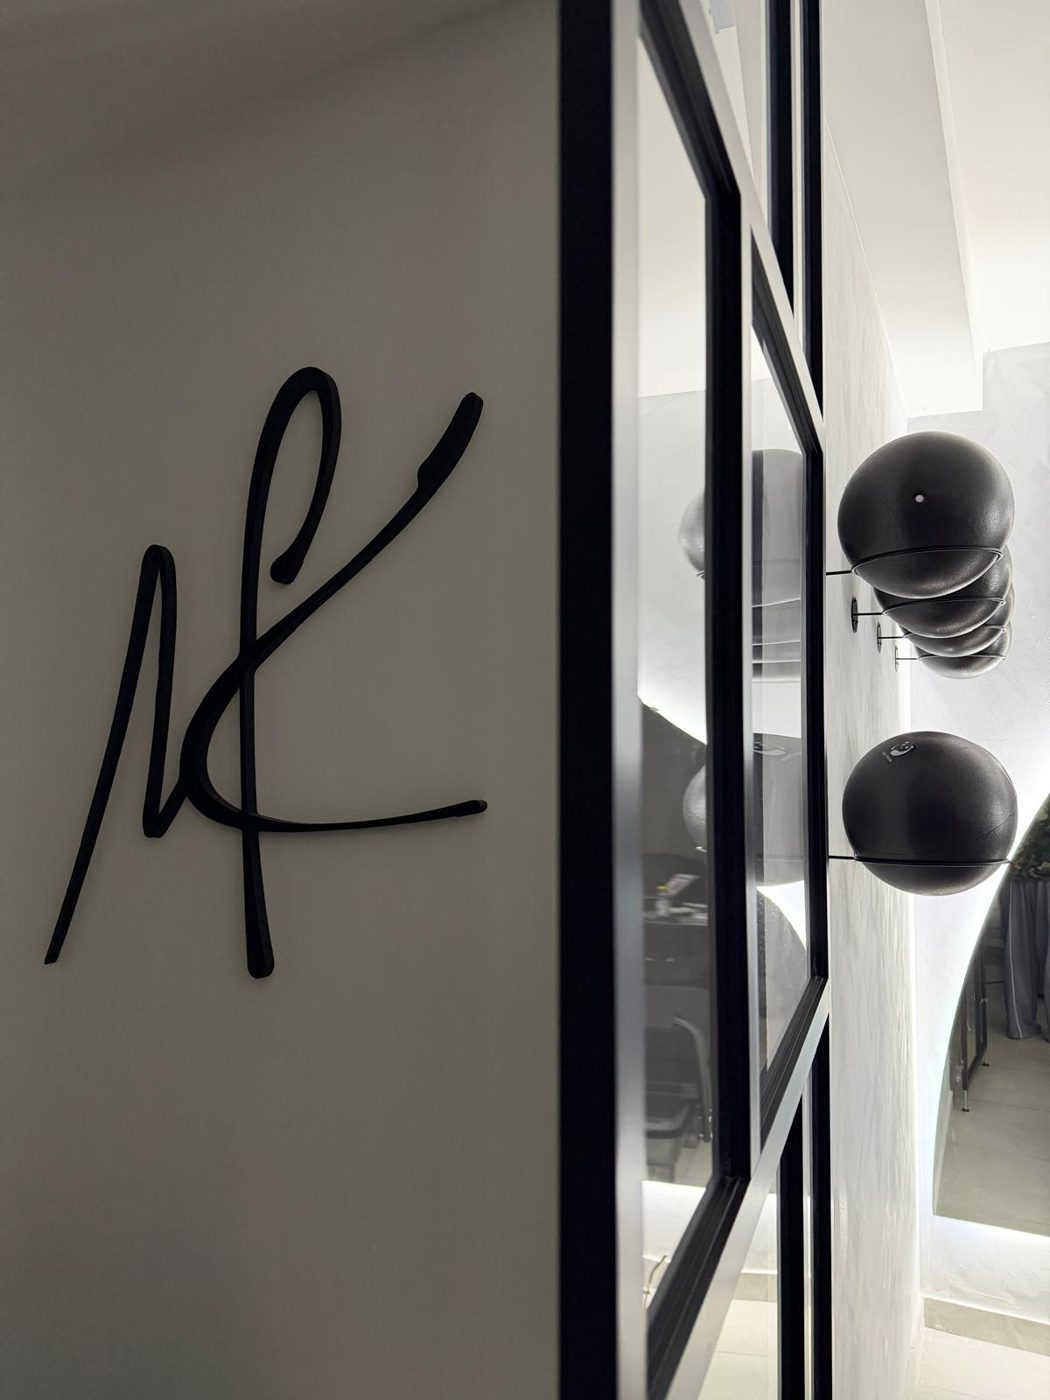
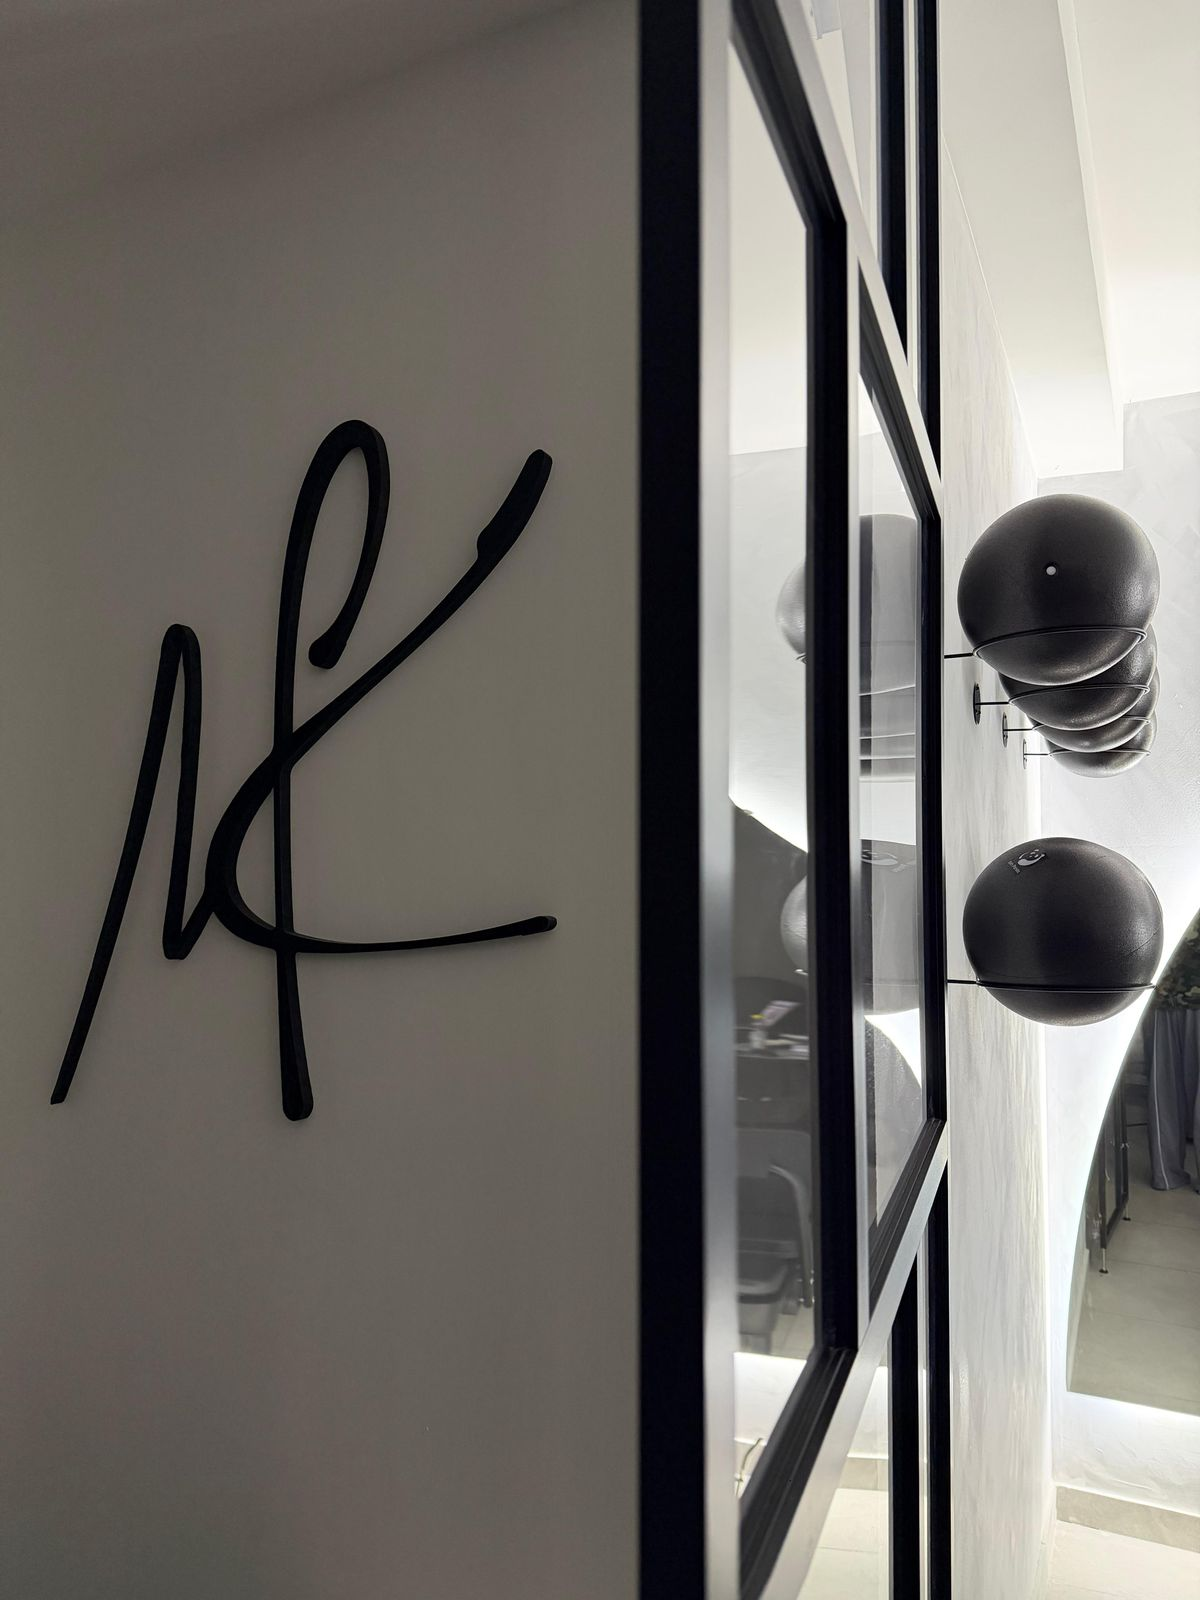
Nouvelles photos du studio
- Photo d'une séance sur Reformer pour la carte Reformer
- Salle Reformer et monogramme en haute résolution
- Galerie « Le studio » agrandie avec les détails des machines (barre, sangles, poignée, ressorts)

Claude-Session: https://claude.ai/code/session_01RNMWCWZdoGTgnotkxZJwzC

diff --git a/styles.css b/styles.css
@@ -261,27 +261,16 @@ em { font-family: var(--sans); font-style: normal; font-weight: 300; color: var(
 
 /* Gallery */
 .section__aside { max-width: 420px; color: var(--muted); margin: 0; }
-.gallery { display: grid; grid-template-columns: 1.3fr 1fr 1fr; grid-template-rows: repeat(2, 300px); gap: 16px; }
+.gallery { display: grid; grid-template-columns: repeat(4, 1fr); grid-auto-rows: 270px; gap: 16px; grid-template-areas:
+  "salle video chrome poignee"
+  "salle video cours  poignee"
+  "barre sangles cours ressorts"; }
 .gallery__item { margin: 0; border-radius: var(--radius); overflow: hidden; background: var(--sand); }
 .gallery__item img, .gallery__item video { width: 100%; height: 100%; object-fit: cover; display: block; transition: transform .8s ease; }
 .gallery__item:hover img, .gallery__item:hover video { transform: scale(1.04); }
-.gallery__item--tall { grid-row: span 2; }
-.gallery__item--video { grid-row: span 2; border-radius: 999px 999px var(--radius) var(--radius); }
-
-/* Map card */
-.map-card { position: relative; margin-top: 60px; border-radius: 24px; overflow: hidden; height: 460px; background: var(--sand); box-shadow: 0 30px 60px -30px rgba(0,0,0,.35); border: 1px solid rgba(255,255,255,.6); }
-.map-card__map { position: absolute; inset: 0; width: 100%; height: 100%; border: 0; filter: grayscale(1) contrast(1.05) brightness(1.02); }
-.map-card__info { position: absolute; top: 28px; left: 28px; width: 290px; padding: 28px; border-radius: var(--radius); background: rgba(250,249,247,.94) url('assets/texture/gris-ak.jpg') 0 0/auto; box-shadow: 0 20px 40px -20px rgba(0,0,0,.4); }
-.map-card__logo { height: 52px; width: auto; margin-bottom: 14px; }
-.map-card__info h3 { font-size: 18px; font-weight: 700; text-transform: uppercase; letter-spacing: .04em; line-height: 1.1; margin-bottom: 14px; }
-.map-card__info h3 em { font-size: 11px; letter-spacing: .4em; }
-.map-card__info p { color: var(--muted); font-size: 15px; margin-bottom: 10px; }
-.map-card__access { font-size: 13px !important; }
-@media (max-width: 600px) {
-  .map-card { height: auto; display: flex; flex-direction: column-reverse; }
-  .map-card__map { position: static; height: 320px; }
-  .map-card__info { position: static; width: auto; border-radius: 0; box-shadow: none; }
-}
+.gallery__item--video { border-radius: 999px 999px var(--radius) var(--radius); }
+.g-salle { grid-area: salle; } .g-video { grid-area: video; } .g-chrome { grid-area: chrome; } .g-poignee { grid-area: poignee; }
+.g-cours { grid-area: cours; } .g-barre { grid-area: barre; } .g-sangles { grid-area: sangles; } .g-ressorts { grid-area: ressorts; }
 
 /* Reveal animation */
 .reveal { opacity: 0; transform: translateY(28px); transition: opacity .8s ease, transform .8s ease; }
@@ -304,9 +293,8 @@ em { font-family: var(--sans); font-style: normal; font-weight: 300; color: var(
   .prices { grid-template-columns: repeat(2, 1fr); }
 }
 @media (max-width: 820px) {
-  .gallery { grid-template-columns: 1fr 1fr; grid-template-rows: none; grid-auto-rows: 220px; }
-  .gallery__item--tall { grid-column: span 2; grid-row: span 1; }
-  .gallery__item--video { grid-row: span 2; }
+  .gallery { grid-template-columns: 1fr 1fr; grid-auto-rows: 200px; gap: 12px; grid-template-areas:
+    "salle salle" "video chrome" "video poignee" "cours barre" "cours sangles" "ressorts ressorts"; }
   .intro__grid, .approach__grid, .contact__grid, .footer__grid { grid-template-columns: minmax(0, 1fr); gap: 40px; }
   .approach__img { aspect-ratio: 1; max-height: 460px; }
   .steps, .reviews { grid-template-columns: 1fr; }

diff --git a/index.html b/index.html
@@ -146,7 +146,7 @@
 
       <!-- Reformer -->
       <article class="card" data-cat="groupe">
-        <div class="card__img" style="background-image:url('assets/studio/reformer-cours.jpg');background-position:center 60%"><span class="tag">Collectif</span></div>
+        <div class="card__img" style="background-image:url('assets/studio/cours-reformer.jpg');background-position:center 55%"><span class="tag">Collectif</span></div>
         <div class="card__body">
           <h3>Reformer</h3>
           <p class="card__claim">Plus de résistance. Plus de défi.</p>
@@ -272,11 +272,14 @@
       <p class="section__aside">Arches de lumière, murs à la chaux et machines Reformer : un cocon pensé pour se concentrer sur l’essentiel, ton mouvement.</p>
     </div>
     <div class="gallery">
-      <figure class="gallery__item gallery__item--tall"><img src="assets/studio/salle-reformers.jpg" alt="La salle Reformer du studio Amber Kossy, éclairée par des arches lumineuses" loading="lazy"></figure>
-      <figure class="gallery__item gallery__item--video"><video autoplay muted loop playsinline preload="none" poster="assets/studio/duo.jpg" aria-label="Cours collectif sur Reformer"><source src="assets/video/studio-duo.mp4" type="video/mp4"></video></figure>
-      <figure class="gallery__item"><img src="assets/studio/monogramme-chrome.jpg" alt="Monogramme AK Amber Kossy" loading="lazy"></figure>
-      <figure class="gallery__item"><img src="assets/studio/accessoires.jpg" alt="Cercle de Pilates et haltères posés sur un Reformer" loading="lazy"></figure>
-      <figure class="gallery__item"><img src="assets/studio/halteres-marbre.jpg" alt="Haltères en marbre blanc" loading="lazy"></figure>
+      <figure class="gallery__item g-salle"><img src="assets/studio/salle-reformers.jpg" alt="La salle Reformer du studio Amber Kossy, éclairée par des arches lumineuses" loading="lazy"></figure>
+      <figure class="gallery__item gallery__item--video g-video"><video autoplay muted loop playsinline preload="none" poster="assets/studio/duo.jpg" aria-label="Cours collectif sur Reformer"><source src="assets/video/studio-duo.mp4" type="video/mp4"></video></figure>
+      <figure class="gallery__item g-chrome"><img src="assets/studio/monogramme-chrome.jpg" alt="Monogramme AK Amber Kossy" loading="lazy"></figure>
+      <figure class="gallery__item g-poignee"><img src="assets/studio/detail-poignee.jpg" alt="Poignée d’un Reformer devant une arche lumineuse" loading="lazy"></figure>
+      <figure class="gallery__item g-cours"><img src="assets/studio/cours-reformer.jpg" alt="Cours collectif sur Reformer chez Amber Kossy" loading="lazy"></figure>
+      <figure class="gallery__item g-barre"><img src="assets/studio/detail-barre.jpg" alt="Barre de pied d’un Reformer" loading="lazy"></figure>
+      <figure class="gallery__item g-sangles"><img src="assets/studio/detail-sangles.jpg" alt="Sangles et chariot d’un Reformer, ballons au mur" loading="lazy"></figure>
+      <figure class="gallery__item g-ressorts"><img src="assets/studio/detail-ressorts.jpg" alt="Ressorts d’un Reformer" loading="lazy"></figure>
     </div>
   </div>
 </section>

diff --git a/sw.js b/sw.js
@@ -1,5 +1,5 @@
 /* Service worker Amber Kossy : site consultable hors-ligne une fois installé */
-const CACHE = 'amber-kossy-v3';
+const CACHE = 'amber-kossy-v4';
 const CORE = ['./', './index.html', './styles.css', './script.js', './manifest.webmanifest',
   './assets/logo-ak-blanc.png', './assets/logo-ak-noir.png', './assets/texture/gris-ak.jpg', './assets/texture/gris-ak-fonce.jpg',
   './assets/studio/hero-poster.jpg', './assets/favicon-192.png'];
